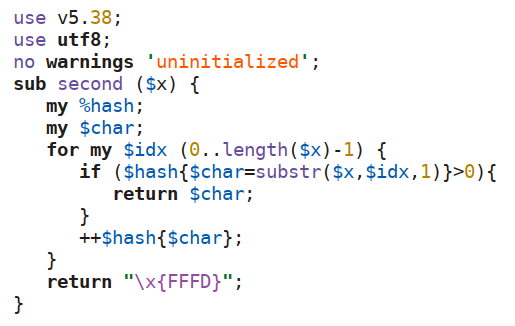
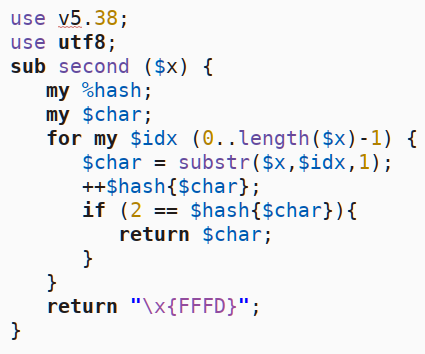
Fixed "uninitialized" issue in PWCC 280-1.

diff --git a/src/test/omfg-test.c b/src/test/omfg-test.c
@@ -1,0 +1,13 @@
+#include <stdio.h>
+#include <stdlib.h>
+int main (void) {
+   int  i = 0;
+   int *p = NULL;
+   while (1) {
+      ++i;
+      p = (int*)malloc(1048576*sizeof(int)); // OMFG!!!
+      printf("%p\n", p);
+      if (i >= 100) {break;}
+   }
+   return 0;
+}
